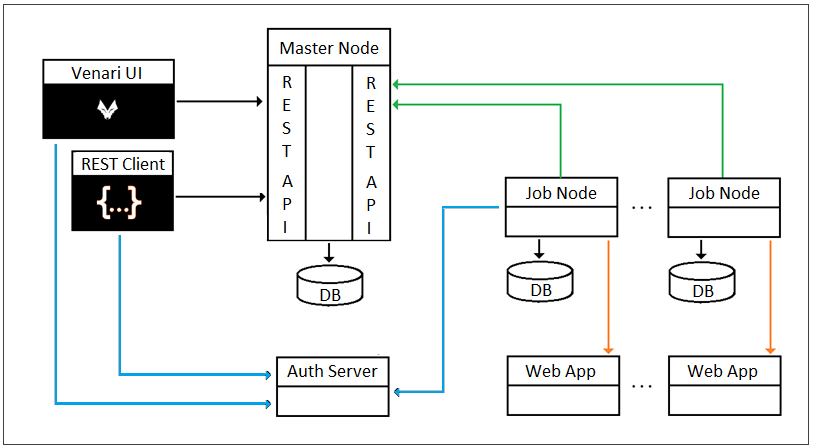
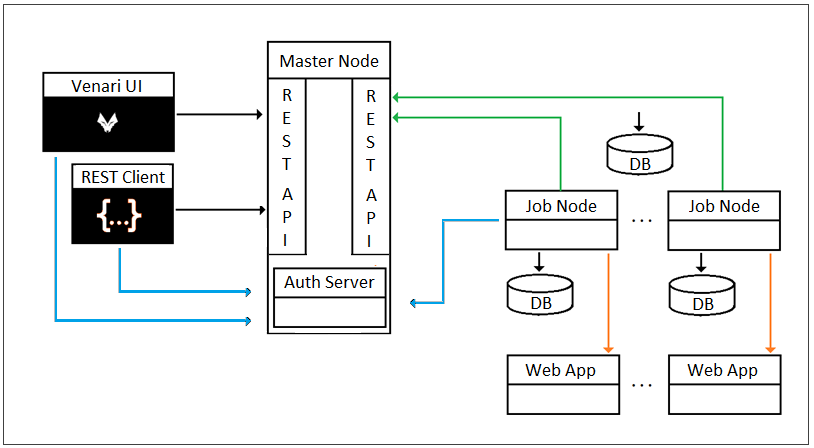
edits for new licensing setup 'out of box' experience.  review and edits for Venari 3.5.

diff --git a/README.md b/README.md
@@ -1,12 +1,12 @@
 # Venari DevOps Setup
 
-Venari DevOps Edition is a platform for automating web application <u>security testing</u> in CI/CD pipelines. Venari's cross-platform architecture uses distributed job nodes and an orchestrator node to enable authenticated, parallel scanning use cases.  
+Venari DevOps Edition is a platform for automating web application <u>security testing</u> in CI/CD pipelines. Venari's cross-platform architecture uses distributed job nodes and an orchestrator node to enable authenticated, parallel scanning.  
 
 The steps below describe a simple Docker setup using either docker-compose or swarm that enables one or more job nodes to be deployed in the same stack and network as the orchestrator node.  
 
 ## Tutorial Scope
 
-Venari can scale to large deployments, either on-premise or in the cloud.  This guide is restricted to a small deployment primarily aimed at enabling a full evaluation of Venari DevOps Edition.  Public cloud deployments and topics such as Kubernetes are not covered in this document, but the basic principles apply across any Docker-based configuration and Venari works in such environments.
+Venari can scale to large deployments, either on-premise or in the cloud.  This guide is restricted to a small deployment primarily aimed at <b>enabling a full evaluation</b> of Venari DevOps Edition.  Public cloud deployments and topics such as Kubernetes are not covered in this document, but the basic principles apply across any Docker-based configuration and Venari works in these environments.
 
 ## Concepts
 
@@ -16,36 +16,46 @@ Venari DevOps distributes and controls scan loads across servers running on mult
 
 <b>The diagram and terms below will help in understanding the directions that follow.</b>
 
+<br>
+
 ![](images/diagram.png)
+
+<br>
 
 
 ### Terms and Definitions
 
-- <u>Orchestrator Node (Master Node)</u>. Exposes REST APIs for controlling and enqueueing jobs.  These APIs are called by job nodes, the Venari UI and custom DevOps clients.  The orchestrator uses a custom NoSQL database engine to organize databases that are containers for application-level data.  Examples are: configuration templates, traffic, findings, and workflows.  The orchestrator also contains high-level job data (summaries, job status , job owners) 
+<br>
 
-- <u>Job Node</u>.  Exposes REST APIs that provide detailed job data.  Polls the master for a de-queueable job (or an elastic, shared jobs) in the READY state.  Either runs a dequeued job to run on a single job node  or opts into an elastic job in progress and pulls queue items from the elastic job to speed up throughput and minimize scan time.
+- <u>Orchestrator Node (Master Node)</u>. Exposes REST APIs for controlling and enqueueing jobs.  These APIs are called by job nodes, the Venari UI and custom DevOps clients.  The orchestrator uses a custom NoSQL database engine to run databases that are containers for application-level data.  Examples are: configuration templates, traffic, findings, and workflows.  The orchestrator also contains high-level job data (summaries, job status, job owners) 
 
-- <u>Scan Farm (Scan Cluster)</u>.  A deployment of an orchestrator node and one or more job nodes for running unattended scans under API control.  Scan farms can run more than one scan at a time and can also run specific scans in elastic mode (as shared jobs).  The number of job nodes limits the overall concurrency.  Elastic and normal scans can run in parallel on a scan farm when there are enough job nodes available.
+- <u>Job Node</u>.  Exposes REST APIs that provide detailed job data.  Polls the master for a de-queueable job (or an elastic/shared job) in the READY state.  Either runs a dequeued job to run on a single job node  or opts into an elastic job in progress and pulls queue items from the elastic job to speed up throughput and minimize scan time.
+
+- <u>Scan Farm (Scan Cluster)</u>.  A deployment of an orchestrator node and one or more job nodes for running unattended scans under API control.  Scan farms can run more than one scan at a time and can also run specific scans in elastic mode (as shared jobs).  The number of job nodes limits the total concurrency.  Elastic and normal scans can run in parallel on a scan farm when there are enough job nodes available.
 
 - <u>DB (database)</u>.  All Venari nodes run a custom NoSQL database engine that is included with the product.  There is no need to install commercial or open-source databases to run Venari.  All application, scan, configuration, findings, imported artifacts and runtime state data are stored in these databases.  Venari supports a large and growing number of import and export formats to interoperate with popular third-party tools.
 
-- <u>Auth Server</u>. The Venari DevOps platform requires authentication and is compatible with authentication providers that support the OpenID Connect standard.  For the simplified swarm setup used for evaluation, Assert Security provides an authentication server pre-configured with the orchestrator node.
+- <u>Auth Server</u>. The Venari DevOps platform requires authentication and is compatible with authentication providers that support the OpenID Connect standard.  For the simplified swarm setup used for evaluation, Assert Security provides an authentication server pre-configured inside the orchestrator node.
 
-- <u>Web App Under Test</u>.  The application(s) being scanned by Venari.  These applications can be run in containers, dev/qa environments or in production deployments but the job nodes must be able to resolve the scan-configured URLs and to make HTTP requests to these applications.
+- <u>Web App Under Test</u>.  The application(s) being scanned by Venari.  These applications can be run in containers, dev/qa environments or in production deployments, but job nodes must be able to resolve the test app URLs in order to make HTTP requests to these applications.  
 
-- <u>Venari UI</u>.  The Venari UI is a cross-platform, installable desktop application that can connect to the master node to configure scans, review results and start/stop scans.  The details of using the Venari UI are available as a quick start video at <a href ='https://www.youtube.com/watch?v=y_riRONjOTk' target='_blank' >Venari Quick Start</a>.  A later section of this tutorial will show the steps needed to verify successful DevOps setup and UI connectivity.
+- <u>Venari UI</u>.  The Venari UI is a cross-platform, installable desktop application that can connect to the orchestrator node to configure scans, review results and start/stop scans.  The details of using the Venari UI are available as a quick start video at <a href ='https://www.youtube.com/watch?v=y_riRONjOTk' target='_blank' >Venari Quick Start</a>.  A later section in this tutorial will show the steps needed to verify successful DevOps setup and UI connectivity.
 
 - <u>REST Client</u>.  The Venari DevOps diagram shows a generic block labelled 'REST Client.'  The master node can be controlled by REST API calls and this block in the diagram is meant to make you aware of this capability.  API control of the master node is not covered in detail in this setup guide.
 
+<br>
+
 ## Setting up Venari DevOps
 
-**PREREQUISITES**  To setup Venari DevOps and use it in the simple setup described below, you must have already:
+<br>
 
-1. Requested an evaluation of Venari DevOps edition and received download links and activation tokens
-2. Installed the Venari UI application and activated the license
+**PREREQUISITES**  
 
-In this minimal example, Venari DevOps requires a Docker swarm cluster with at least two separate containers (one for the swarm master node, and 1 for a job node).  The `swarm master`  host server should be allocated 2 CPUs and 8GB RAM. The `swarm worker` host should be allocated 4 CPUs and 16GB RAM, assuming the host server instance will be dedicated to running  `Venari job node` containers only.
+To setup Venari DevOps and use it in the simple setup described below, you must have already:
 
+1. Requested an evaluation of Venari DevOps edition and received download links and a DevOps license file.
+2. Download and Install the Venari UI application (you will license the UI in a later step).
+3. Docker must be installed.
 
 ### Login to the Assert Security registry
 
@@ -55,35 +65,47 @@ You must login to the Assert Security private container registry before you can 
 docker login -u <user> -p <token> assertsecurity.azurecr.io
 ```
 
-### Pull Docker Images
+### Pull the VEnari DevOps Docker Image
 
-You must pull the Venari DevOps image.
-
-Venari DevOps:
 ```
 docker pull assertsecurity.azurecr.io/venari:3.5
 ```
 
-## Instructions for Running a DevOps Farm with Docker Compose
+## Running a DevOps Farm using Docker Compose
 
-Make sure you execute the following steps from the root of this source code repository.
+<br>
 
-For Windows and Linux:
+1. Open your terminal or command window to the root directory of this Git source code repository. There should be a file called <u>docker-compose.yaml</u> in the terminal's current directory listing.
+
+2. Execute the following commands in the order shown below.
+
+Windows and Linux:
 
 ```
 docker-compose --env-file ./settings.env up
 ```
 
-For Mac:
+Mac:
 
 ```
 docker-compose --env-file ./settings-mac.env up
 ```
 
+Note that the terminal window will show progress messages as Docker composes the Venari scan farm of one orchestrator node and one job node.  There may be scrolling messages indicating 'The current license is invalid.'  These messages can be ignored because you will input the license info in the next step.
 
-## Instructions for Running a DevOps Farm with Docker Swarm
 
-Initialize Docker for swarm operation by typing the command below.
+## Running a DevOps Farm using Docker Swarm
+
+<br>
+
+Venari DevOps requires a Docker swarm cluster with at least two separate containers (one for the swarm master node, and one for a job node).  
+
+- The `swarm master`  host server should be allocated 2 CPUs and 8GB RAM. 
+
+- The `swarm worker` host should be allocated 4 CPUs and 16GB RAM, assuming the host server instance will be dedicated to running  `Venari job node` containers only.
+
+
+### Initialize Docker for Swarm Operation
 
 ```
 docker swarm init
@@ -91,7 +113,7 @@ docker swarm init
 
 ### Configure an overlay network
 
-Using the command below, create an overlay network that will be shared by the master node, job node(s), authentication server and the Venari UI.  
+Using the command below, create an overlay network that will be shared by the master node, job node(s) and the Venari UI.  
 
 ```
 docker network create -d overlay venari-devops
@@ -109,7 +131,7 @@ uuidgen | docker secret create jobnode-client-secret -
 
 ### Create SSL/TLS certificate (optional)
 
-In order to have a trusted SSL/TLS connection to the orchestrator node, you can optionally configure an SSL certificate using a .pfx file that you must create within your environment.  If it is self-signed, you will need to have a .crt file with the public key distributed to end users in order for them to install as a trusted certificate.  Venari will internally generate a self-signed certificate if it is not explicitly configured as a secret.  This will work fine when connecting via the Venari UI, but when accessing the orchestrator node via a browser there will be warnings and depending upon the corporate network connectivity from a browser may not work at all.
+In order to have a trusted SSL/TLS connection to the orchestrator node, you can optionally configure an SSL certificate using a .pfx file that you must create within your environment.  If the certificate is self-signed, you will need a .crt file with the public key distributed to end users in order for them to install as a trusted certificate.  Venari will internally generate a self-signed certificate if it is not explicitly configured as a secret.  This will work fine when connecting via the Venari UI, but when accessing the orchestrator node via a browser there will be warnings and depending upon the corporate network connectivity from a browser may not work at all.
 
 ```
 docker secret create server-ssl-cert.pfx ./server-ssl-cert.pfx
@@ -118,16 +140,18 @@ docker secret create server-ssl-cert.pwd ./server-ssl-cert.pwd
 
 **Note:** the server-ssl-cert.pwd file contains the password used for the .pfx file.
 
-### Verify settings in settings.env
+### Verify Settings in the settings.env file
 
-Make changes to the PUBLIC_MASTER_BASEURL and PUBLIC_AUTHSERVER_BASEURL as appropriate for your environment.  Also, pay attention to the version of the image used for VENARI_IMAGE.  Make sure the version specified is the correct version of the product you want to use.
+- Make changes to the PUBLIC_MASTER_BASEURL as appropriate for your environment.  
 
-Both the `PUBLIC_MASTER_PORT` and `PUBLIC_AUTHSERVER_PORT` must be opened for Venari Ultimate Edition to communicate with the `Venari orchestraor node`.
+- Pay attention to the value of the VENARI_IMAGE variable.  Make sure the version specified is the correct version of the product you want to use.
+
+- The `PUBLIC_MASTER_PORT` must be opened for Venari UI to communicate with the `Venari orchestrator node`.
 
 
 ### Deploy the containers
 
-Run the following command from the `swarm master node` and from the folder where the  `setting.env` and `docker-stack.yaml` files are saved.
+Run the following <b>bash command</b> from the `swarm master node` and from the folder where the  `setting.env` and `docker-stack.yaml` files are saved.
 
 For Windows and Linux:
 
@@ -141,38 +165,51 @@ For Mac:
 source ./settings-mac.env && docker stack deploy -c docker-stack.yaml venari-devops --with-registry-auth
 ```
 
-## Setup admin password and license
+## Setup admin Password and License Information
 
-TODO
+<b>
 
-## Verify Scan Farm Deployment from Venari UI
+The Venari orchestrator node and job node are running but the DevOps license must be supplied to the orchestrator in order to use the product. Follow the steps below to apply the license file.
 
-Run the Venari UI and follow these steps to verify that the scan farm is deployed and that the UI can connect and start a scan.
+1. Browse to https://host.docker.internal:9000/ If you get a 'Connection not private' warning you can ignore it since the SSL certificate has not been set up.
 
-### Configure Remote Settings
+2. Create a password for the 'admin' user. The password must contain at least 8 characters.
 
-Click the `Settings` button at the top and configure your local IP address as the server endpoint.  It is important to configure the endpoint as ONLY the scheme and host (and optionally the port, if it is non-standard).  <u>Don't add a trailing slash</u>.
+3. A message screen will show that the license is not configured.  Click the BROWSE button and select the DevOps license file (the file should have a .lic extension).
 
-`Example: https://192.168.0.123`
 
-Make sure to enable `Ignore Certificate Errors`
+4. Click the YES button to apply new license.
 
-![](images/configure-remote-settings.png)
+5. The license is now configured and you can close the browser without clicking anything else.
 
 <br>
 
+## Verify Scan Farm Deployment from Venari UI
+
+<br>
+
+Run the Venari UI and follow these steps to verify that the scan farm is deployed and that the UI can connect and start a scan.
+
+### Apply License Information to the Venari UI
+
+1. Check the ignore certificate errors checkbox
+2. Check the 'Use Flex License' checkbox
+3. Select 'Professional' from the Product dropdown list
+4. Enter https://host.docker.internal:9000 into the master node text input and click OK
+5. Enter the admin password you created earlier
+6. If the license dialog pops up again click OK
 
 ### Connect to Master Node
 
-Click the `Remote` tab and login using the username `admin` and the password you created in the secrets setup section above: AUTH-ADMIN-PASSWORD
+Click the `Remote` tab and login using the username `admin` and the password you created earlier.
 
 ![](images/login.png)
 
 <br>
 
-### Verify that Home Screen is Visible
+### Verify that Home Screen is Visible after Logging in
 
-Make sure the Venari Home screen is visible after logging in.
+<br>
 
 ![](images/home-screen.png)
 
@@ -180,7 +217,11 @@ Make sure the Venari Home screen is visible after logging in.
 
 ### Verify that Nodes Were Created
 
+<br>
+
 Click the `Nodes` tab and verify that a master node and job node are active in the grid on the right hand side of the UI.
+
+<br>
 
 ![](images/nodes.png)
 
@@ -189,26 +230,35 @@ Click the `Nodes` tab and verify that a master node and job node are active in t
 
 ### Create a Test Application to Verify End to End Functionality
 
-On the home screen, click 'New Application' button to create a test application. This verifies that the templates and application workspace are created in the master node DB.  For the example below, we are showing `Google Firing Range` <a href='https://public-firing-range.appspot.com/ '>https://public-firing-range.appspot.com/ </a>which is a publicly available XSS testbed that can be legally scanned.  This Google site does not require a login to see the full site content.  Feel free to use your own application instead.  For information on setting up a scan see <a href ='https://www.youtube.com/watch?v=y_riRONjOTk' target='_blank' >Venari Quick Start</a>
+<br>
 
-![](images/new-app-setup.png)
+On the home screen, click 'New Application' button to create a test application. This verifies that the templates and application workspace are created in the master node DB.  
+
+For the example below, we are showing `Google Firing Range` <a href='https://public-firing-range.appspot.com/ '>https://public-firing-range.appspot.com/ </a>which is a publicly available XSS testbed that can be legally scanned.  This Google site does not require a login to see the full site content.  
+
+Follow the steps shown in the animated GIF below to setup a scan of Google Firing Range.
 
 <br>
 
-After clicking the OK button on the application setup screen you should see a list of runnable templates.  Click the play button next to the `Exploit` template.
-
-![](images/click-start.png)
+![](images/gfr-scan.gif)
 
 <br>
+
+After clicking the CREATE button on the application setup screen you should see a list of runnable templates.  Click the play button next to the `Exploit` template.
 
 Verify that the scan is running by looking at the summary screen.  After about 1 minute there should be visible progress in the queue gauges and the UI should be similar to this:
 
-![](images/running-scan-summary.png)
+<br>
+
+![](images/run-scan.gif) 
 
 <br>
- 
+<br>
+
 
 ## Verify Scan Farm Deployment via Command Line
+
+<br>
 
 ### View the swarm deployment progress
 
@@ -221,14 +271,13 @@ docker stack ps venari-devops
 
 ```
 docker service logs venari-devops_jobnode --follow
-docker service logs venari-devops_authserver --follow
 docker service logs venari-devops_venarimaster --follow
 ```
 
 ### Test connectivity to the Venari auth server
 
 ```
-PUBLIC_AUTHSERVER_BASEURL:PUBLIC_AUTHSERVER_PORT/.well-known/openid-configuration
+PUBLIC_MASTER_BASEURL:PUBLIC_MASTER_PORT/.well-known/openid-configuration
 ```
 
 ### Test connectivity to master node:
@@ -249,10 +298,13 @@ For the above URLs to work in a browser you may need a trusted SSL certificate c
 
 **Note:** If running a docker swarm with a single node only (swarm master/worker node on same server instance), remove the `node.role` constraints from the `jobnode` and `venarimaster` service definitions.
 
+<br>
+
 ## Shutdown the Venari DevOps farm
 
+<br>
 
-### If Using Docker Compose
+### Docker Compose Shutdown
 
 For Windows and Linux:
 
@@ -266,7 +318,7 @@ For Mac:
 docker-compose --env-file ./settings-mac.env down
 ```
 
-### If Using Docker Swarm
+### Docker Swarm Shutdown
 
 ```
 docker stack rm venari-devops
